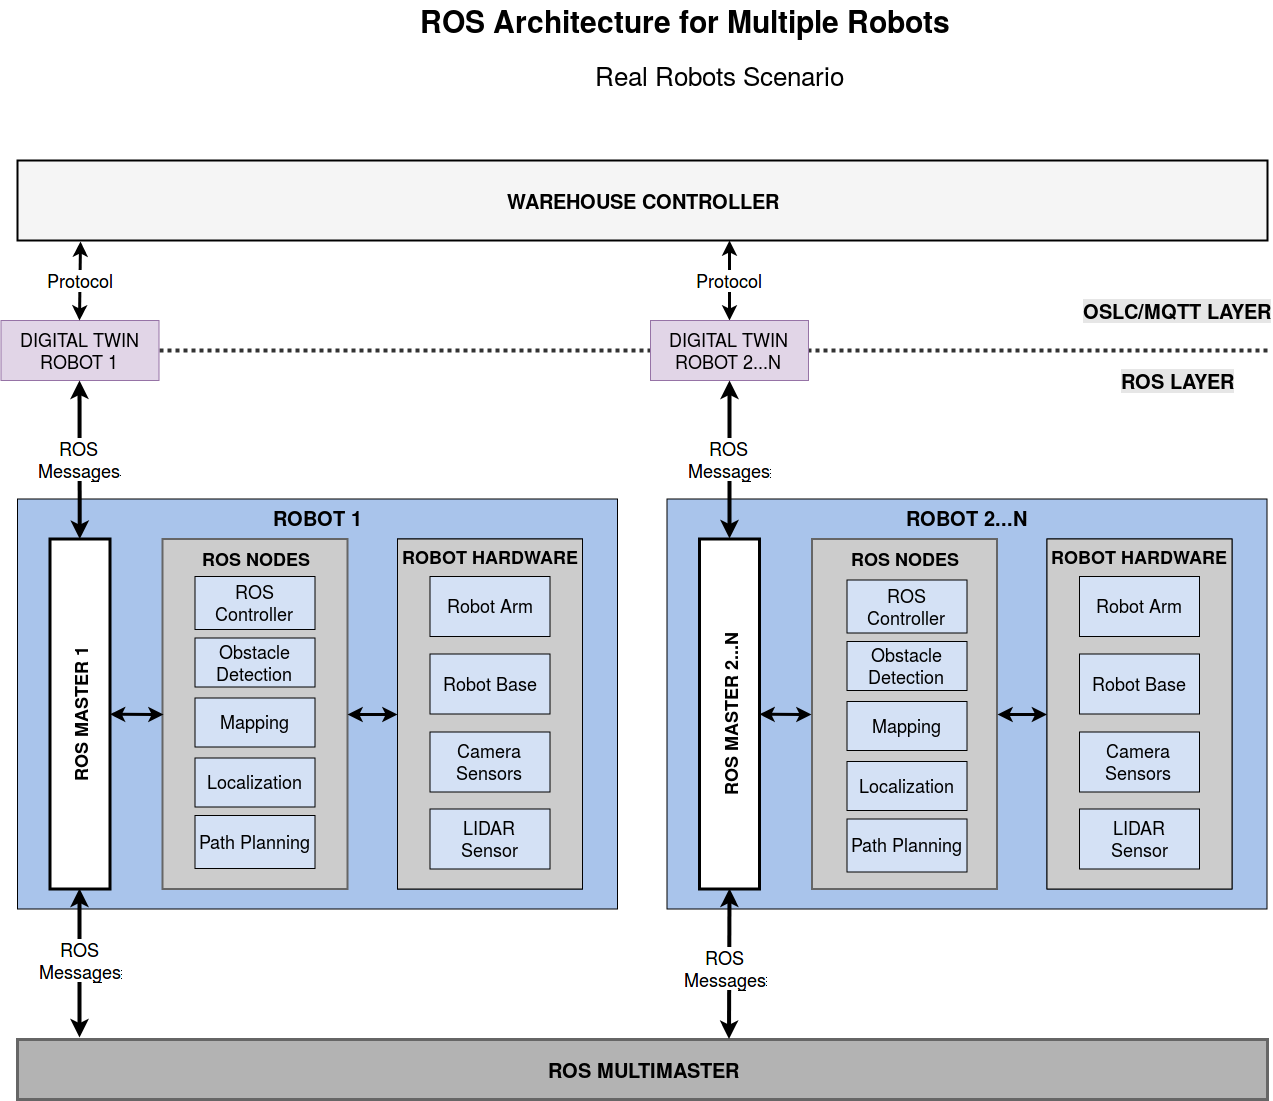
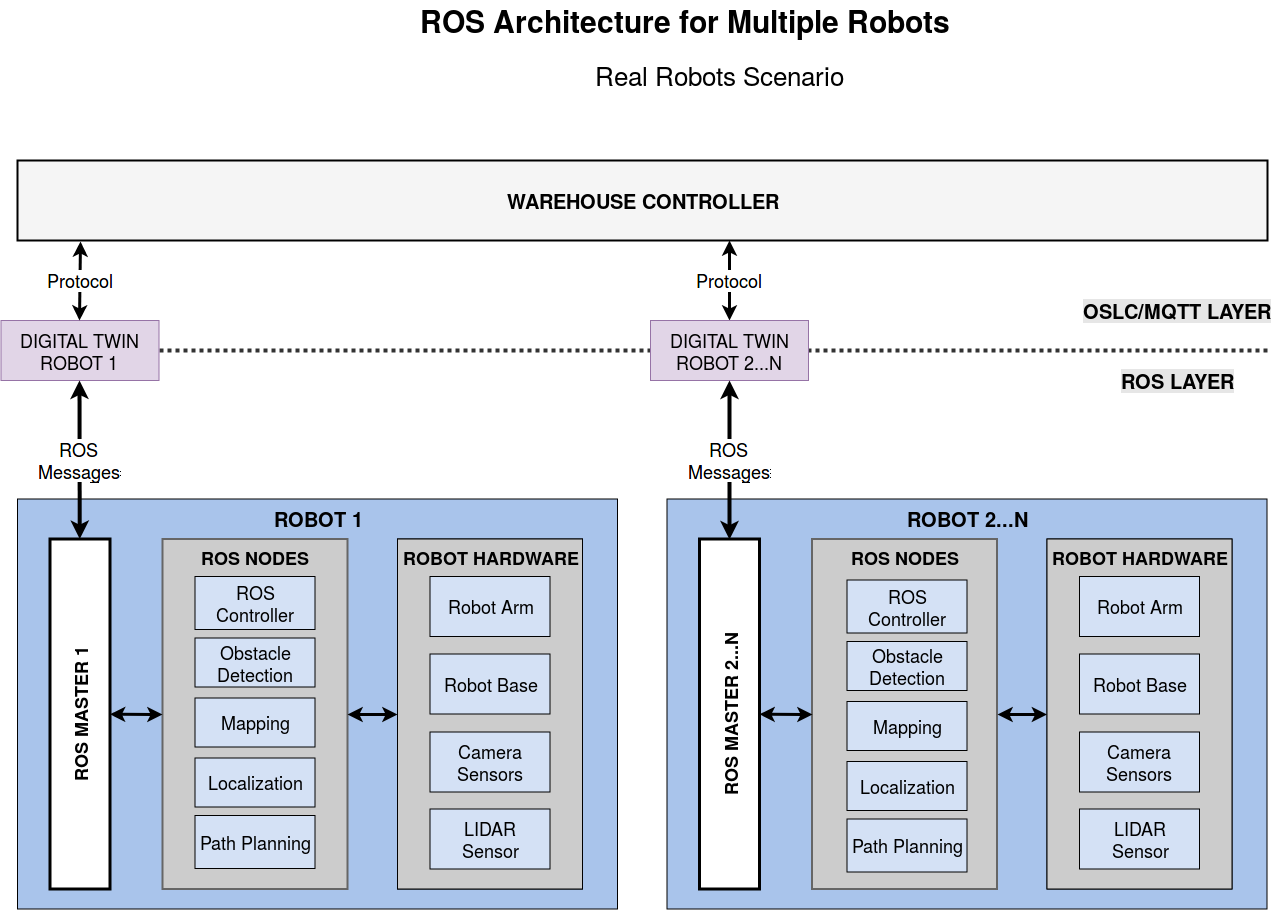
few changes in the documentation

diff --git a/doc/architecture.md b/doc/architecture.md
@@ -30,13 +30,11 @@ The following diagram depicts the architecture representing the components of th
 
 ### 2.2. Real Robots Scenario
 
-In this scenario, it is used real robots equipped with its own computer and running ROS on top of it. Each robot has its own *ROS MASTER*, therefore, [ROS MultiMaster](http://wiki.ros.org/ROS/Tutorials/MultipleMachines) is used to perform communication between robots. The digital twins access the robot data from the *ROS MASTER* of each robot. All the robot algorithms are developed through ROS libraries, thus, it is intended to use the same algorithms of the simulated setup.
+In this scenario, it is used real robots equipped with its own computer and running ROS on top of it. Each robot has its own *ROS MASTER*, therefore, the OSLC/MQTT layer is used to perform communication between robots. The digital twins access the robot data from the *ROS MASTER* of each robot. All the robot algorithms are developed through ROS libraries, thus, it is intended to use the same algorithms of the simulated setup.
 
 The main components of the architecture in the real robot setting are:
 
-- **ROS Multimaster:** Enables the use of multiple ROS Master by providing the communication interface between them. Through this, one robot can communicate with other without having to pass the data through OSLC/MQTT layer.
-
-- **ROS Master:** Provides the inner communication interface of the robot by centralizing all the components of the robot. It also is the common interface of the real robots to the *ROS Multimaster* and to the digital twins.
+- **ROS Master:** Provides the inner communication interface of the robot by centralizing all the components of the robot. It is also the comunication interface between each real robot to its corresponting digital twin.
 
 - **Robot ROS Nodes:** Contain all the methods necessary to run the robot, such as obstacle detection, localization and motion planning. Essentially, the same codes used in the simulated architecture are used. The algorithms are developed using ROS libraries and provides high level abstraction interface to the *Robot Hardware*.
 
